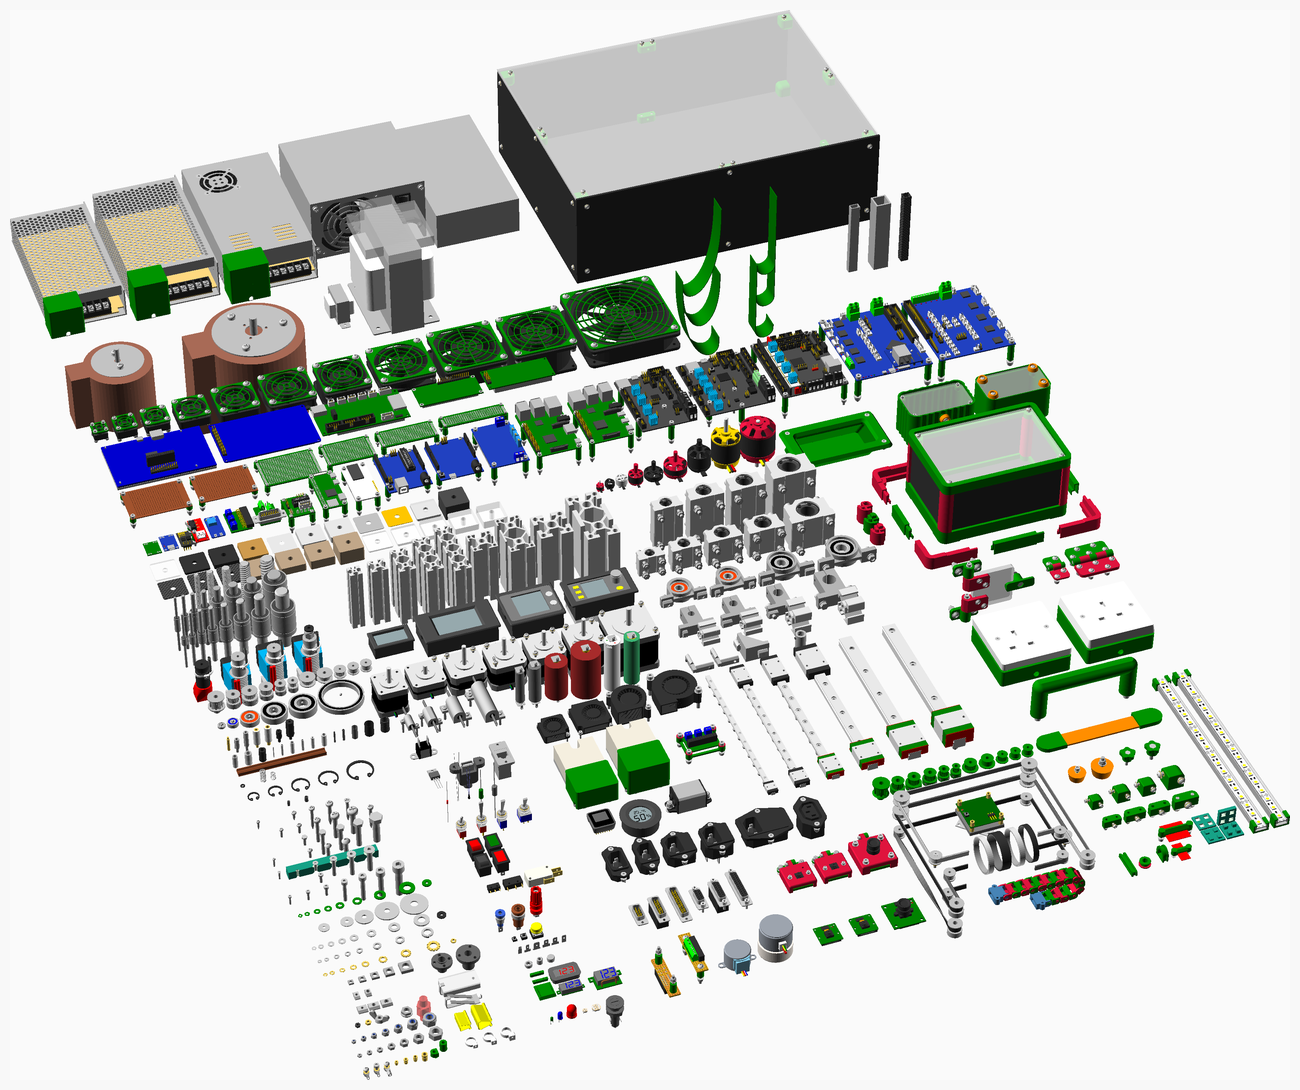
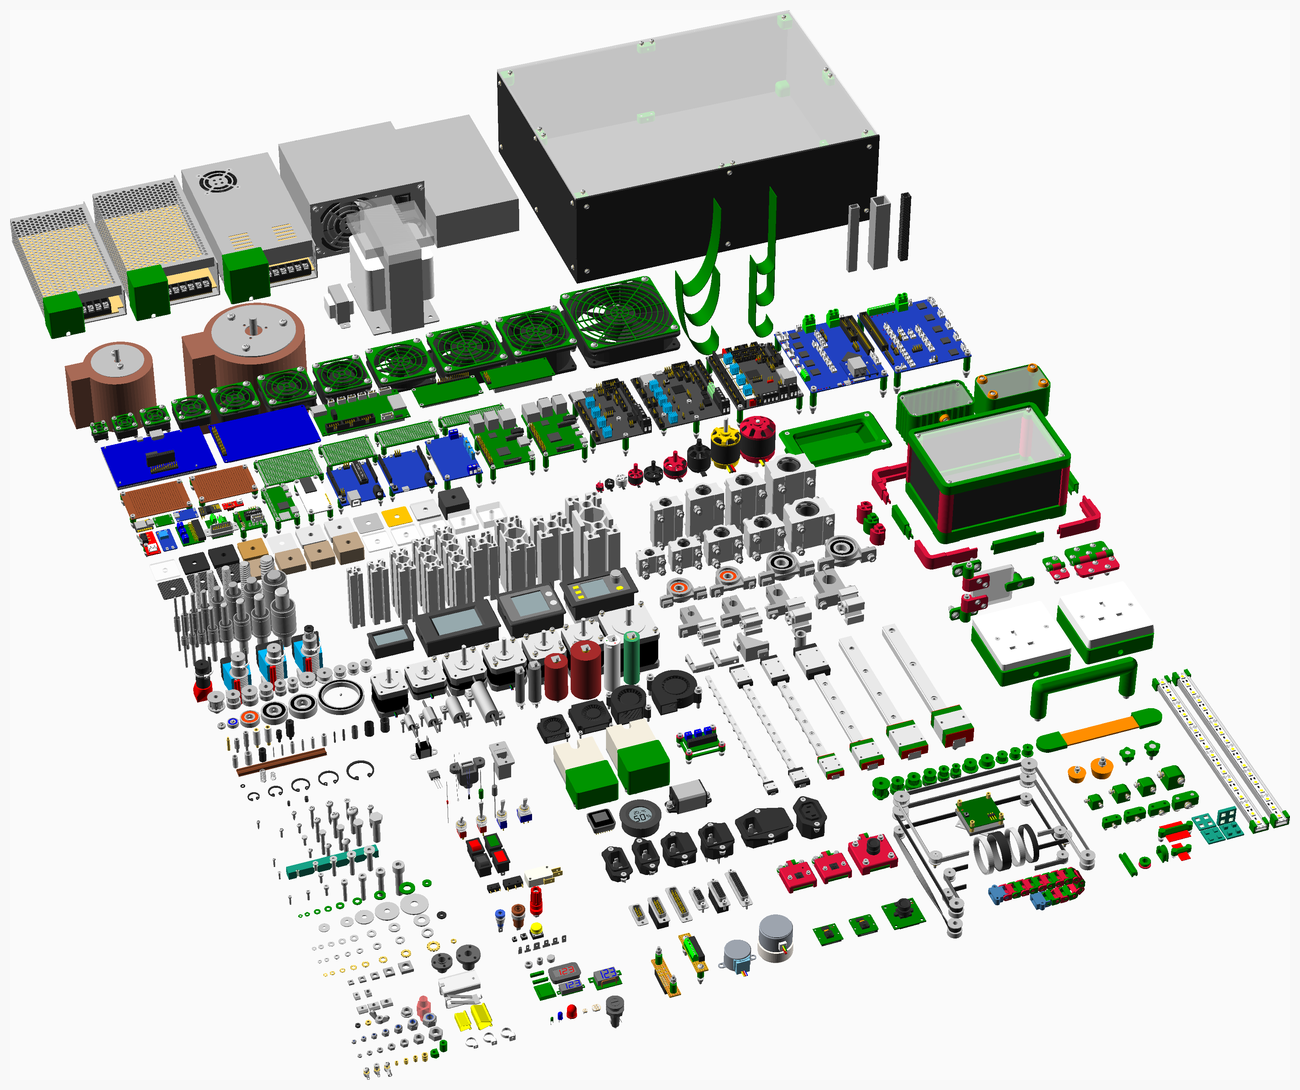
Added LIPO fuel gauge PCB.

diff --git a/readme.md b/readme.md
@@ -2461,6 +2461,7 @@ PCBs and perfboard with optional components. The shape can be a rectangle with o
 |   1 | `pcb(EnviroPlus)` |  Enviro+ |
 |   1 | `pcb(ExtruderPCB)` |  Extruder connection PCB |
 |   1 | `pcb(Keyes5p1)` |  Keyes5.1 Arduino Uno expansion board - not shown |
+|   1 | `pcb(LIPO_fuel_gauge)` |  LIPO fuel gauge |
 |   1 | `pcb(MP1584EN)` |  MP1584EN 3A buck converter |
 |   1 | `pcb(MT3608)` |  MT3608 boost converter module |
 |   1 | `pcb(Melzi)` |  Melzi electronics - not shown |
